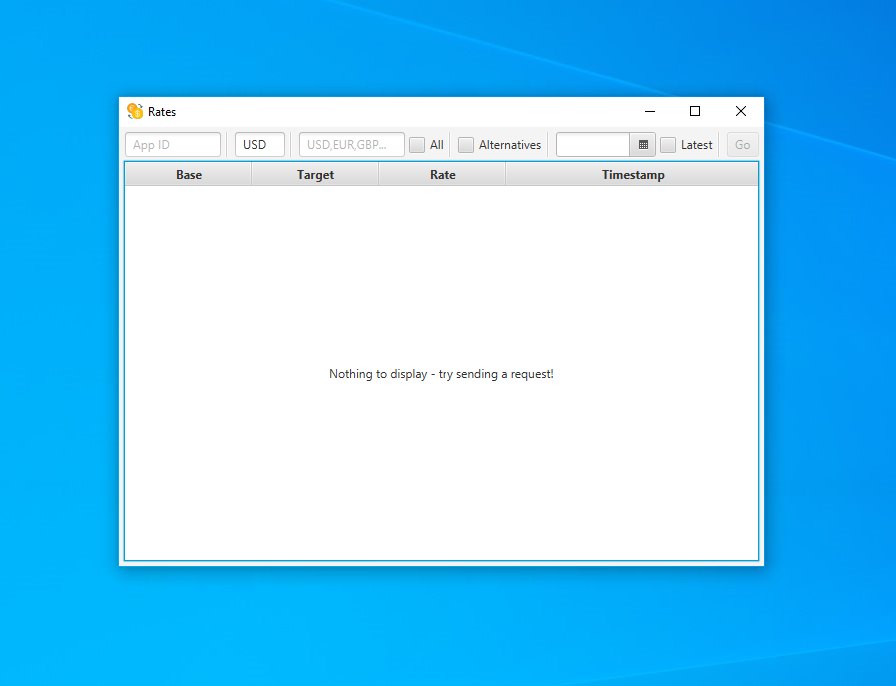
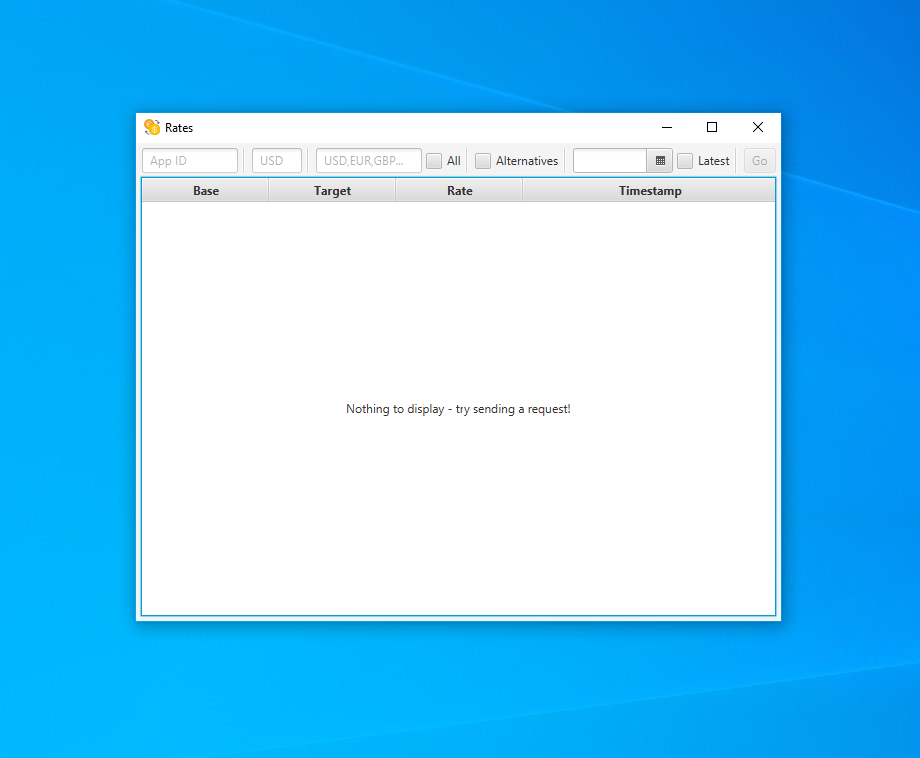
Removed limit on stage width and added Ubuntu 20.04 screenshot

Changed region(s): [[0.125, 0.1224, 0.875, 0.8571], [0.375, 0.5204, 0.625, 0.551]]

diff --git a/src/main/java/com/altmax/rates/App.java b/src/main/java/com/altmax/rates/App.java
@@ -13,7 +13,6 @@ public final class App extends Application {
         PrimaryScene primaryScene = PrimaryScene.fromFXML();
         stage.setTitle("Rates");
         stage.setScene(primaryScene);
-        stage.setMinWidth(primaryScene.getPreferredWidth());
         stage.getIcons().add(new Image("/icons/currency_exchange.png"));
         stage.show();
     }

diff --git a/src/main/java/com/altmax/rates/view/PrimaryScene.java b/src/main/java/com/altmax/rates/view/PrimaryScene.java
@@ -26,8 +26,4 @@ public final class PrimaryScene extends Scene {
         Parent root = FXMLLoader.load(rootLocation);
         return new PrimaryScene(root);
     }
-
-    public double getPreferredWidth() {
-        return getRoot().prefWidth(-1);
-    }
 }
